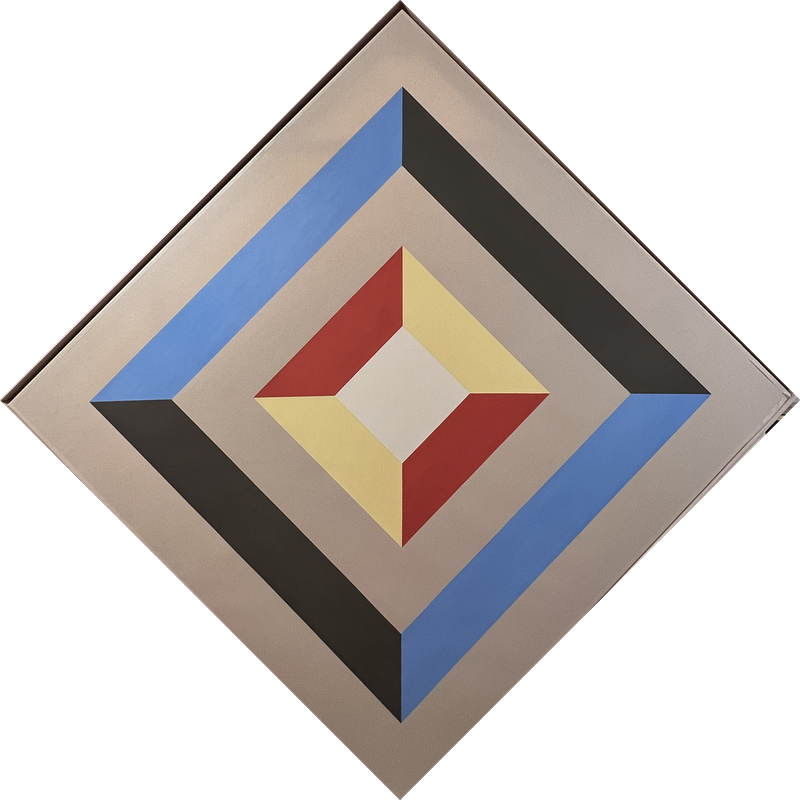
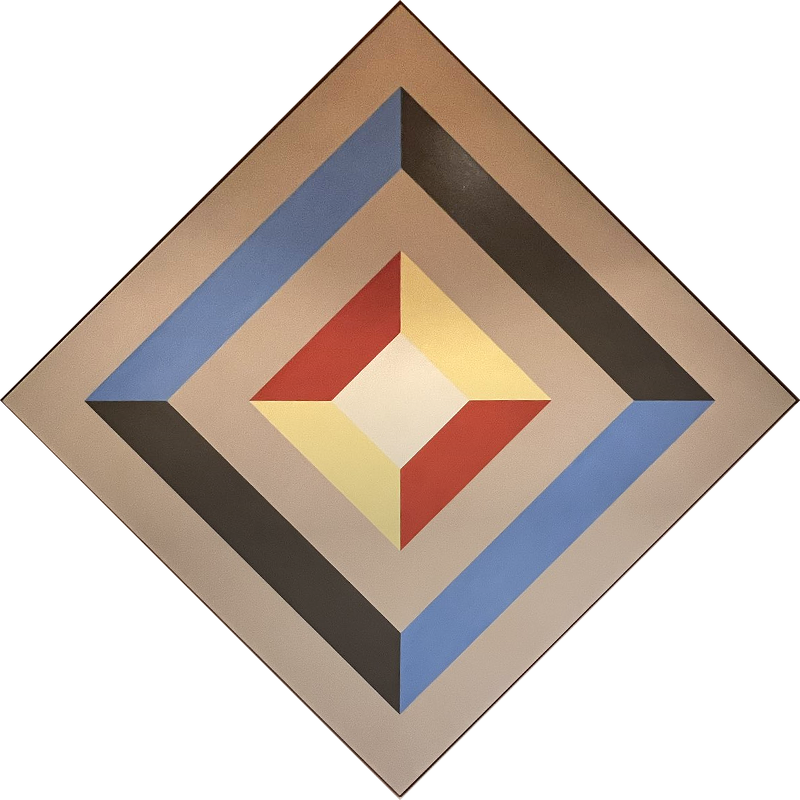
New photos for The Saddle, To the Point and Beyond the Ordinary; remove frames from Colourful Moments and Standing Tall
Claude-Session: https://claude.ai/code/session_016Lo5qMsXVYYyB4rEtzvvTs

diff --git a/index.html b/index.html
@@ -213,12 +213,12 @@ body[data-view]:not([data-view="home"]) .bio{padding-top:300px}
 <article class="work" style="--w:37"><img class="cut" src="img/savas-28.png" alt="Patrice Bertin, Through Space" width="682" height="771" loading="lazy"><h3>Through Space</h3><p>Oil on canvas<br>43 × 37 in<br>$11,000</p><button class="btn" data-art="Patrice Bertin, Through Space">Inquire</button></article>
 <article class="work" style="--w:12.5"><img src="img/savas-25.jpg" alt="Patrice Bertin, The Colourful River of Life" width="164" height="1099" loading="lazy"><h3>The Colourful River of Life</h3><p>Oil on canvas<br>96 × 12½ in<br>$5,500</p><button class="btn" data-art="Patrice Bertin, The Colourful River of Life">Inquire</button></article>
 <article class="work" style="--w:12.5"><img src="img/savas-26.jpg" alt="Patrice Bertin, The River of Life" width="165" height="1099" loading="lazy"><h3>The River of Life</h3><p>Oil on canvas<br>96 × 12½ in<br>$5,500</p><button class="btn" data-art="Patrice Bertin, The River of Life">Inquire</button></article>
-<article class="work" style="--w:48"><img src="img/savas-31.jpg" alt="Patrice Bertin, The Saddle" width="898" height="895" loading="lazy"><h3>The Saddle</h3><p>Oil on canvas<br>48 × 48 in<br>$16,000</p><button class="btn" data-art="Patrice Bertin, The Saddle">Inquire</button></article>
+<article class="work" style="--w:48"><img src="img/savas-31.jpg" alt="Patrice Bertin, The Saddle" width="802" height="802" loading="lazy"><h3>The Saddle</h3><p>Oil on canvas<br>48 × 48 in<br>$16,000</p><button class="btn" data-art="Patrice Bertin, The Saddle">Inquire</button></article>
 <article class="work" style="--w:48"><img src="img/savas-24.jpg" alt="Patrice Bertin, The Gateway" width="763" height="938" loading="lazy"><h3>The Gateway</h3><p>Oil on canvas<br>48 × 60 in<br>$14,000</p><button class="btn" data-art="Patrice Bertin, The Gateway">Inquire</button></article>
-<article class="work" style="--w:62"><img src="img/savas-32.jpg" alt="Patrice Bertin, Beyond the Ordinary" width="461" height="455" loading="lazy"><h3>Beyond the Ordinary</h3><p>Oil on canvas<br>62 × 62 in<br>$14,000</p><button class="btn" data-art="Patrice Bertin, Beyond the Ordinary">Inquire</button></article>
+<article class="work" style="--w:62"><img src="img/savas-32.jpg" alt="Patrice Bertin, Beyond the Ordinary" width="806" height="806" loading="lazy"><h3>Beyond the Ordinary</h3><p>Oil on canvas<br>62 × 62 in<br>$14,000</p><button class="btn" data-art="Patrice Bertin, Beyond the Ordinary">Inquire</button></article>
 <article class="work" style="--w:34"><img class="cut" src="img/savas-33.png" alt="Patrice Bertin, Paris Composition 1961" width="290" height="393" loading="lazy"><h3>Paris Composition 1961</h3><p>Oil on canvas<br>52 × 34 in<br>Louis XVI-style gilded frame<br>$14,500</p><button class="btn" data-art="Patrice Bertin, Paris Composition 1961">Inquire</button></article>
-<article class="work" style="--w:12.5"><img src="img/savas-34.jpg" alt="Patrice Bertin, Colourful Moments" width="90" height="448" loading="lazy"><h3>Colourful Moments</h3><p>Oil on canvas<br>84 × 12½ in<br>$7,700</p><button class="btn" data-art="Patrice Bertin, Colourful Moments">Inquire</button></article>
-<article class="work" style="--w:20"><img src="img/savas-35.jpg" alt="Patrice Bertin, Standing Tall" width="127" height="436" loading="lazy"><h3>Standing Tall</h3><p>Oil on canvas<br>60 × 20 in<br>$5,500</p><button class="btn" data-art="Patrice Bertin, Standing Tall">Inquire</button></article>
+<article class="work" style="--w:12.5"><img src="img/savas-34.jpg" alt="Patrice Bertin, Colourful Moments" width="64" height="423" loading="lazy"><h3>Colourful Moments</h3><p>Oil on canvas<br>84 × 12½ in<br>$7,700</p><button class="btn" data-art="Patrice Bertin, Colourful Moments">Inquire</button></article>
+<article class="work" style="--w:20"><img src="img/savas-35.jpg" alt="Patrice Bertin, Standing Tall" width="86" height="376" loading="lazy"><h3>Standing Tall</h3><p>Oil on canvas<br>60 × 20 in<br>$5,500</p><button class="btn" data-art="Patrice Bertin, Standing Tall">Inquire</button></article>
 <article class="work" style="--w:48"><img src="img/savas-22.jpg" alt="Patrice Bertin, Selected artwork 04" width="773" height="765" loading="lazy"><h3>Selected artwork 04</h3><p>Oil on canvas<br>48 × 48 in<br>Price Upon Request</p><button class="btn" data-art="Patrice Bertin, Selected artwork 04 (PB04)">Inquire</button></article>
 <article class="work" style="--w:36"><img src="img/savas-23.jpg" alt="Patrice Bertin, Selected artwork 05" width="741" height="974" loading="lazy"><h3>Selected artwork 05</h3><p>Oil on canvas<br>36 × 48 in<br>Price Upon Request</p><button class="btn" data-art="Patrice Bertin, Selected artwork 05 (PB05)">Inquire</button></article>
 <article class="work" style="--w:36"><img src="img/savas-27.jpg" alt="Patrice Bertin, Selected artwork 08" width="689" height="1062" loading="lazy"><h3>Selected artwork 08</h3><p>Oil on canvas<br>36 × 60 in<br>Price Upon Request</p><button class="btn" data-art="Patrice Bertin, Selected artwork 08 (PB08)">Inquire</button></article></div></div></section>
